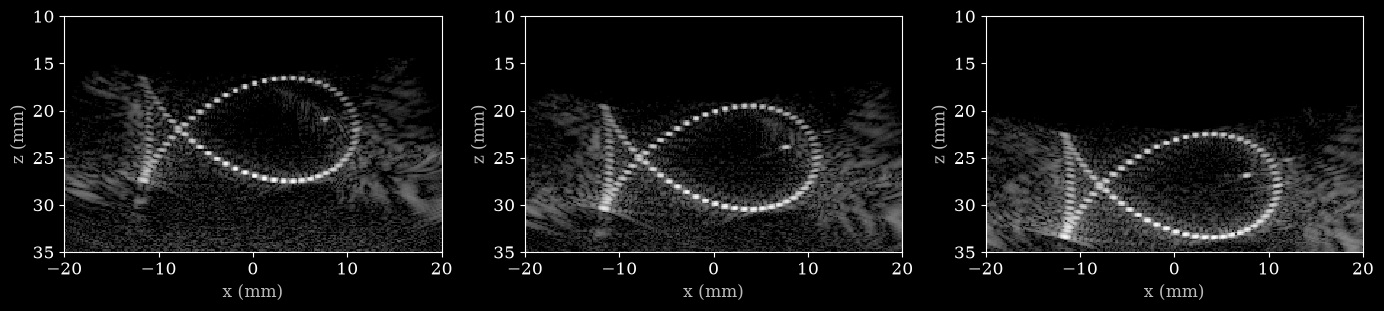
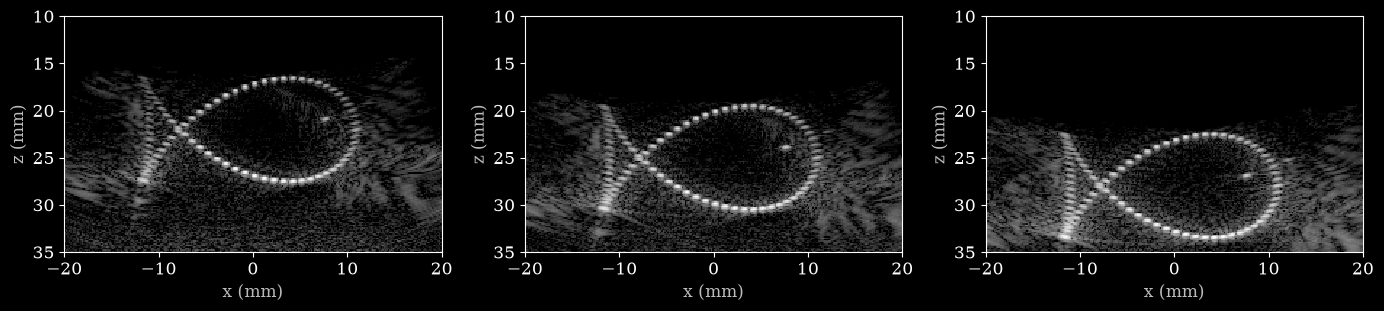
fixed simulator memory budget chunking

diff --git a/zea/simulator.py b/zea/simulator.py
@@ -192,9 +192,12 @@ def simulate_rf(
         element_height (float): The elevation height of the elements [m], used for the
             elevation directivity. If None, an eighth of the width of a 1D probe (at least
             ``element_width``), or ``element_width`` for a 2D probe.
-        max_chunk_gb (float): Memory budget [GB] for one frequency block. Larger blocks run
-            the batched matrix products more efficiently: 4 GB is about 25% faster than 1 GB
-            at 100k scatterers on a GPU, and up to 2x on CPU. Lower it if memory is tight.
+        max_chunk_gb (float): Memory budget [GB] for one block of work: a block of frequency
+            bins over all scatterers, or, when one bin of every scatterer-element response
+            (about ``8 * n_scat * n_el`` bytes) exceeds the budget, one bin over a chunk of
+            scatterers, with the chunks summed. Larger blocks run the batched matrix products
+            more efficiently: 4 GB is about 25% faster than 1 GB at 100k scatterers on a GPU,
+            and up to 2x on CPU. Lower it if memory is tight.
         noise_level_db (float): Electronic noise level in dB relative to the noiseless RF
             maximum. None disables the noise. Must be static under jit.
         tgc_max_db (float): Time gain compensation in dB at the last axial sample, ramped
@@ -382,35 +385,44 @@ def simulate_rf(
     wave = _pulse_spectra(pulses, np.fft.rfftfreq(n_fft, 1 / fs)[k0:k1])
 
     # Forward of one block per bin: the complex responses and the two matrix product outputs.
-    per_bin = 8 * ((2 if two_dimensional else 1) * n_scat * n_el + n_tx * n_scat + n_tx * n_el)
-    blocks = _band_blocks(n_fft, fs, k0, k1, per_bin, max_chunk_gb * 2**30)
+    # A single bin can still exceed the budget, so scatterers are chunked as well.
+    budget = max_chunk_gb * 2**30
+    per_scat = 8 * ((2 if two_dimensional else 1) * n_el + n_tx)
+    chunk = int(min(n_scat, max(1, (budget - 8 * n_tx * n_el) // per_scat)))
+    n_chunks = -(-n_scat // chunk)
+    chunk = -(-n_scat // n_chunks)
+    blocks = _band_blocks(n_fft, fs, k0, k1, per_scat * chunk + 8 * n_tx * n_el, budget)
+    per_scatterer_exponent = scatter_exponent is not None and _ndim(scatter_exponent) == 1
 
-    # The straight-ray slowness and attenuation of every path, once for all frequency blocks.
-    slowness, attenuation = _ray_means(
-        positions,
-        model,
-        sos_map,
-        attenuation_map,
-        map_grid_x,
-        map_grid_z,
-        map_grid_y,
-        n_sos_ray_samples,
-    )
-
-    block = _checkpointed_block(
-        _rf_block,
-        positions=positions,
-        magnitudes=magnitudes,
-        model=model,
-        slowness=slowness,
-        attenuation=attenuation,
-        shift=shift,
-        tx_apodizations=ops.cast(tx_apodizations, "float32"),
-        center_frequency=fc,
-        gate_time=_record_gate_time(n_ax, fs, _pulse_tail(pulses)),
-        scatter_exponent=scatter_exponent,
-    )
-    spectrum = _band_spectrum(block, blocks, (n_tx, n_el)) * ops.convert_to_tensor(wave)[:, :, None]
+    spectrum = ops.zeros((blocks.n_kept, n_tx, n_el), "complex64")
+    for start in range(0, n_scat, chunk):
+        part = slice(start, start + chunk)
+        # The straight-ray slowness and attenuation of every path, once for all frequency blocks.
+        slowness, attenuation = _ray_means(
+            positions[part],
+            model,
+            sos_map,
+            attenuation_map,
+            map_grid_x,
+            map_grid_z,
+            map_grid_y,
+            n_sos_ray_samples,
+        )
+        block = _checkpointed_block(
+            _rf_block,
+            positions=positions[part],
+            magnitudes=magnitudes[part],
+            model=model,
+            slowness=slowness,
+            attenuation=attenuation,
+            shift=shift,
+            tx_apodizations=ops.cast(tx_apodizations, "float32"),
+            center_frequency=fc,
+            gate_time=_record_gate_time(n_ax, fs, _pulse_tail(pulses)),
+            scatter_exponent=scatter_exponent[part] if per_scatterer_exponent else scatter_exponent,
+        )
+        spectrum = spectrum + _band_spectrum(block, blocks, (n_tx, n_el))
+    spectrum = spectrum * ops.convert_to_tensor(wave)[:, :, None]
 
     # Transmits in groups, so a long record over many transmits does not allocate at once.
     group = min(32, n_tx)

diff --git a/tests/test_simulator.py b/tests/test_simulator.py
@@ -133,6 +133,25 @@ def test_multi_plane_transmit_is_the_sum_of_its_delay_sets(fish_scan):
     np.testing.assert_allclose(mpt[0], separate.sum(0), atol=1e-4 * np.abs(separate).max())
 
 
+def test_scatterer_chunks_below_one_bin_budget_sum_to_the_whole(fish_scan):
+    """A budget below one frequency bin of all scatterers chunks the scatterers instead."""
+    positions, args, _ = fish_scan
+    grid_x = np.linspace(-30e-3, 30e-3, 61, dtype=np.float32)
+    grid_z = np.linspace(0, 40e-3, 41, dtype=np.float32)
+    sos_map = np.full((41, 61), SOUND_SPEED, np.float32)
+    sos_map[15:25, 20:40] = 1600.0
+    args = {
+        **args,
+        "scatter_exponent": np.linspace(0.5, 2.0, len(positions), dtype=np.float32),
+        "sos_map": sos_map,
+        "map_grid_x": grid_x,
+        "map_grid_z": grid_z,
+    }
+    whole = _np(simulate_rf(**args))
+    chunked = _np(simulate_rf(**args, max_chunk_gb=2e-5))  # four chunks of the fish
+    np.testing.assert_allclose(chunked, whole, atol=1e-4 * np.abs(whole).max())
+
+
 def _dot_brightness(image, positions):
     z = np.linspace(ZLIMS[0], ZLIMS[1], image.shape[0])
     x = np.linspace(XLIMS[0], XLIMS[1], image.shape[1])
